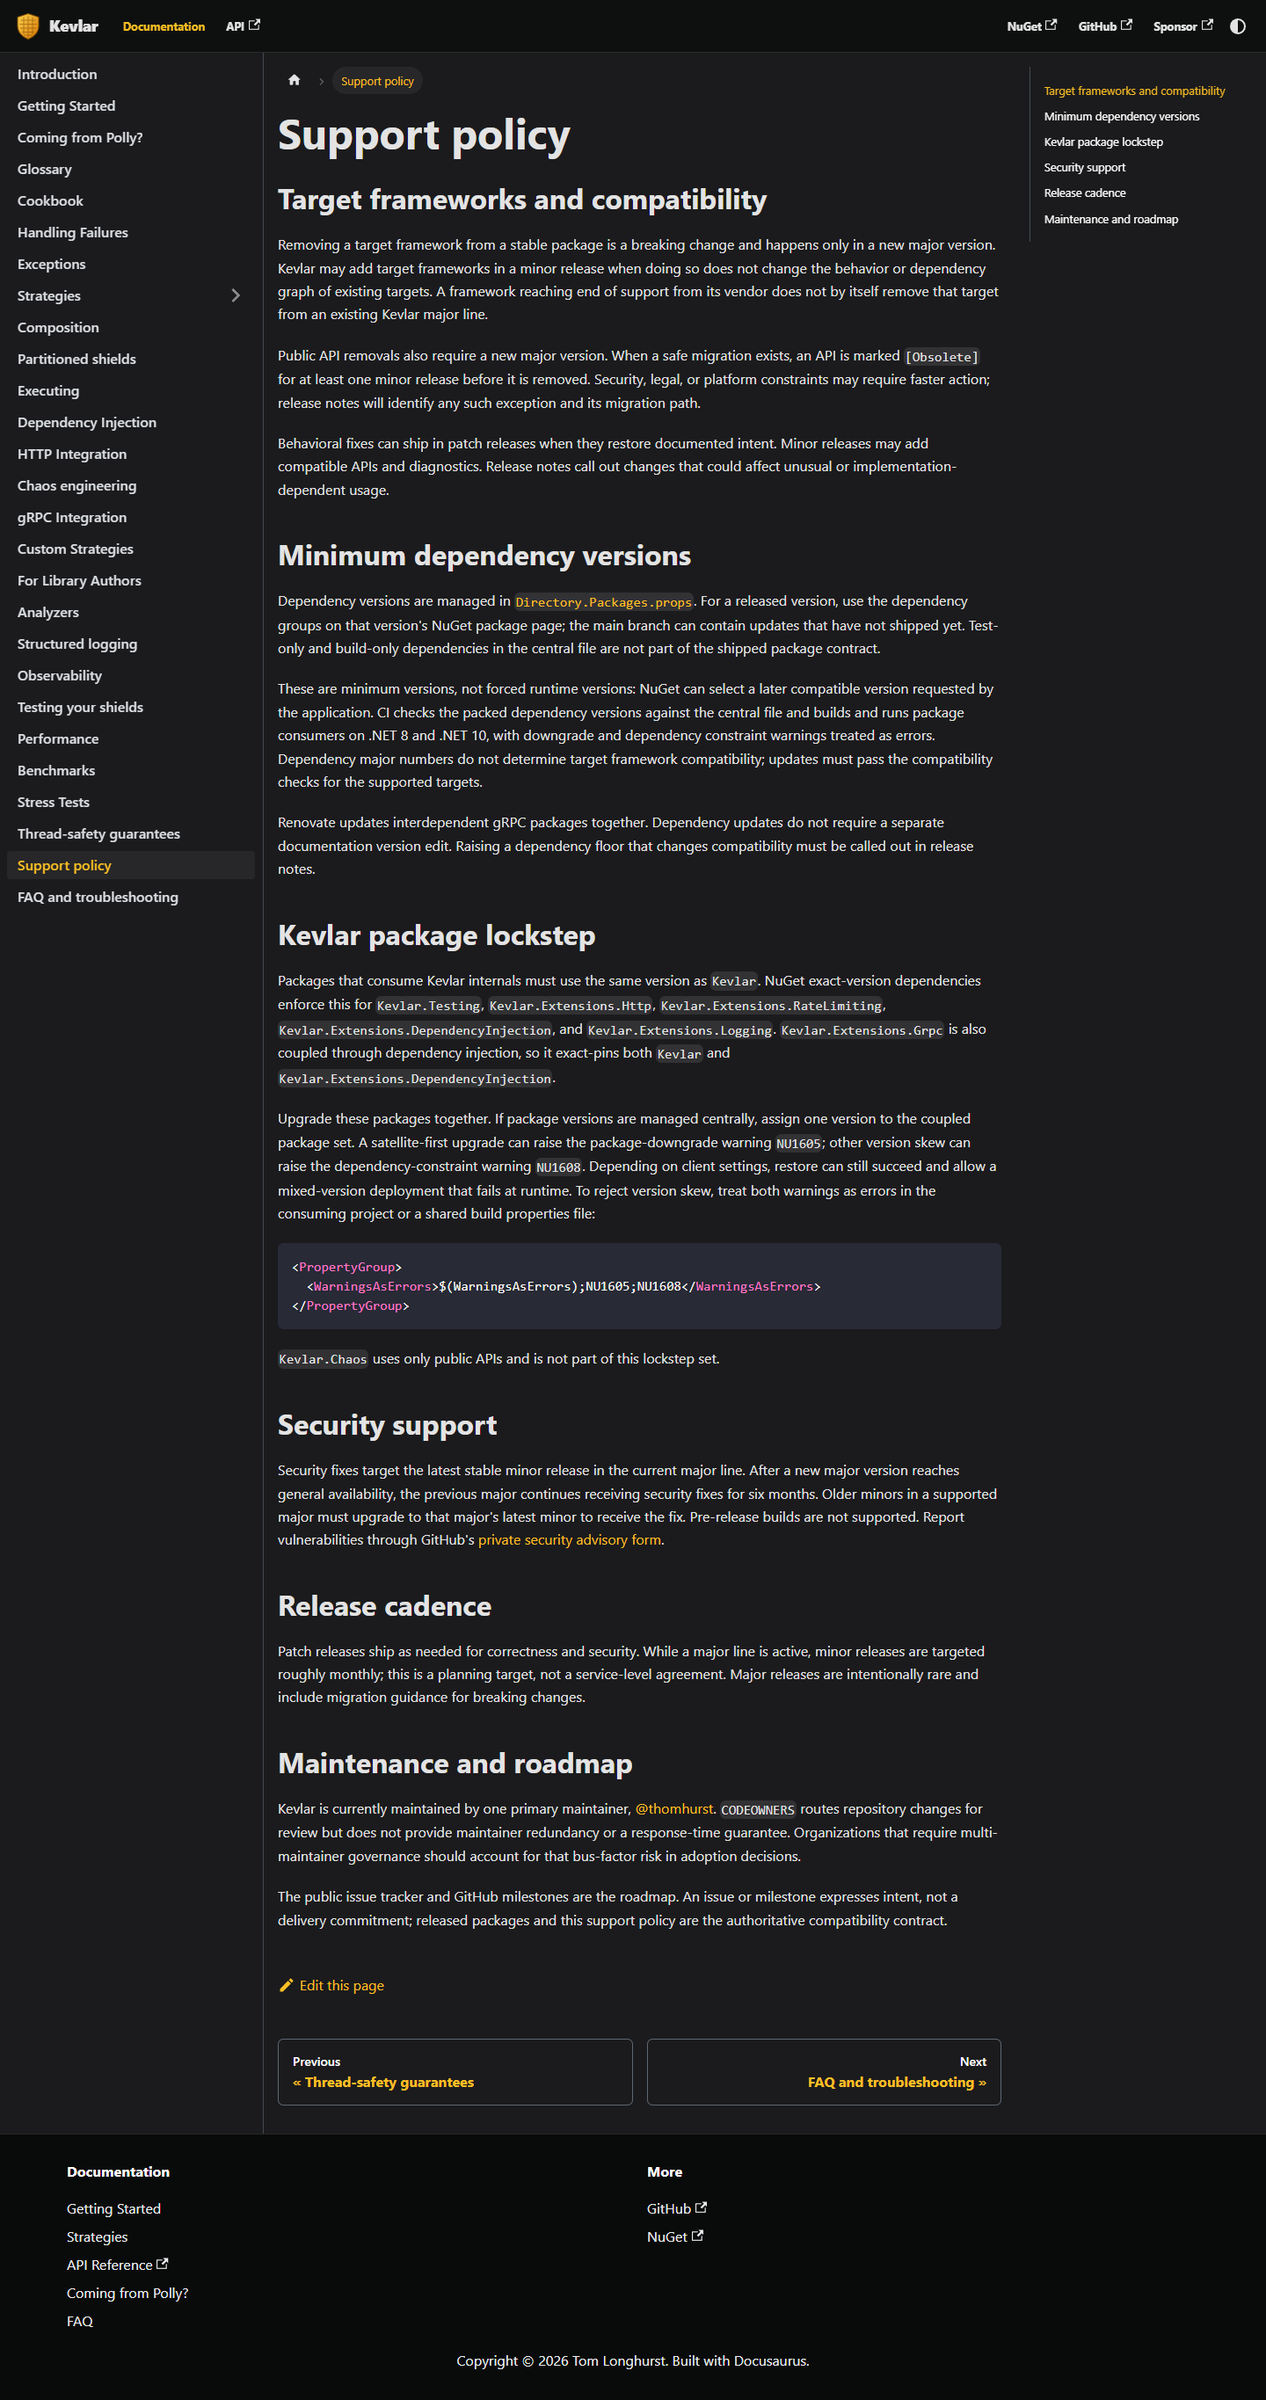
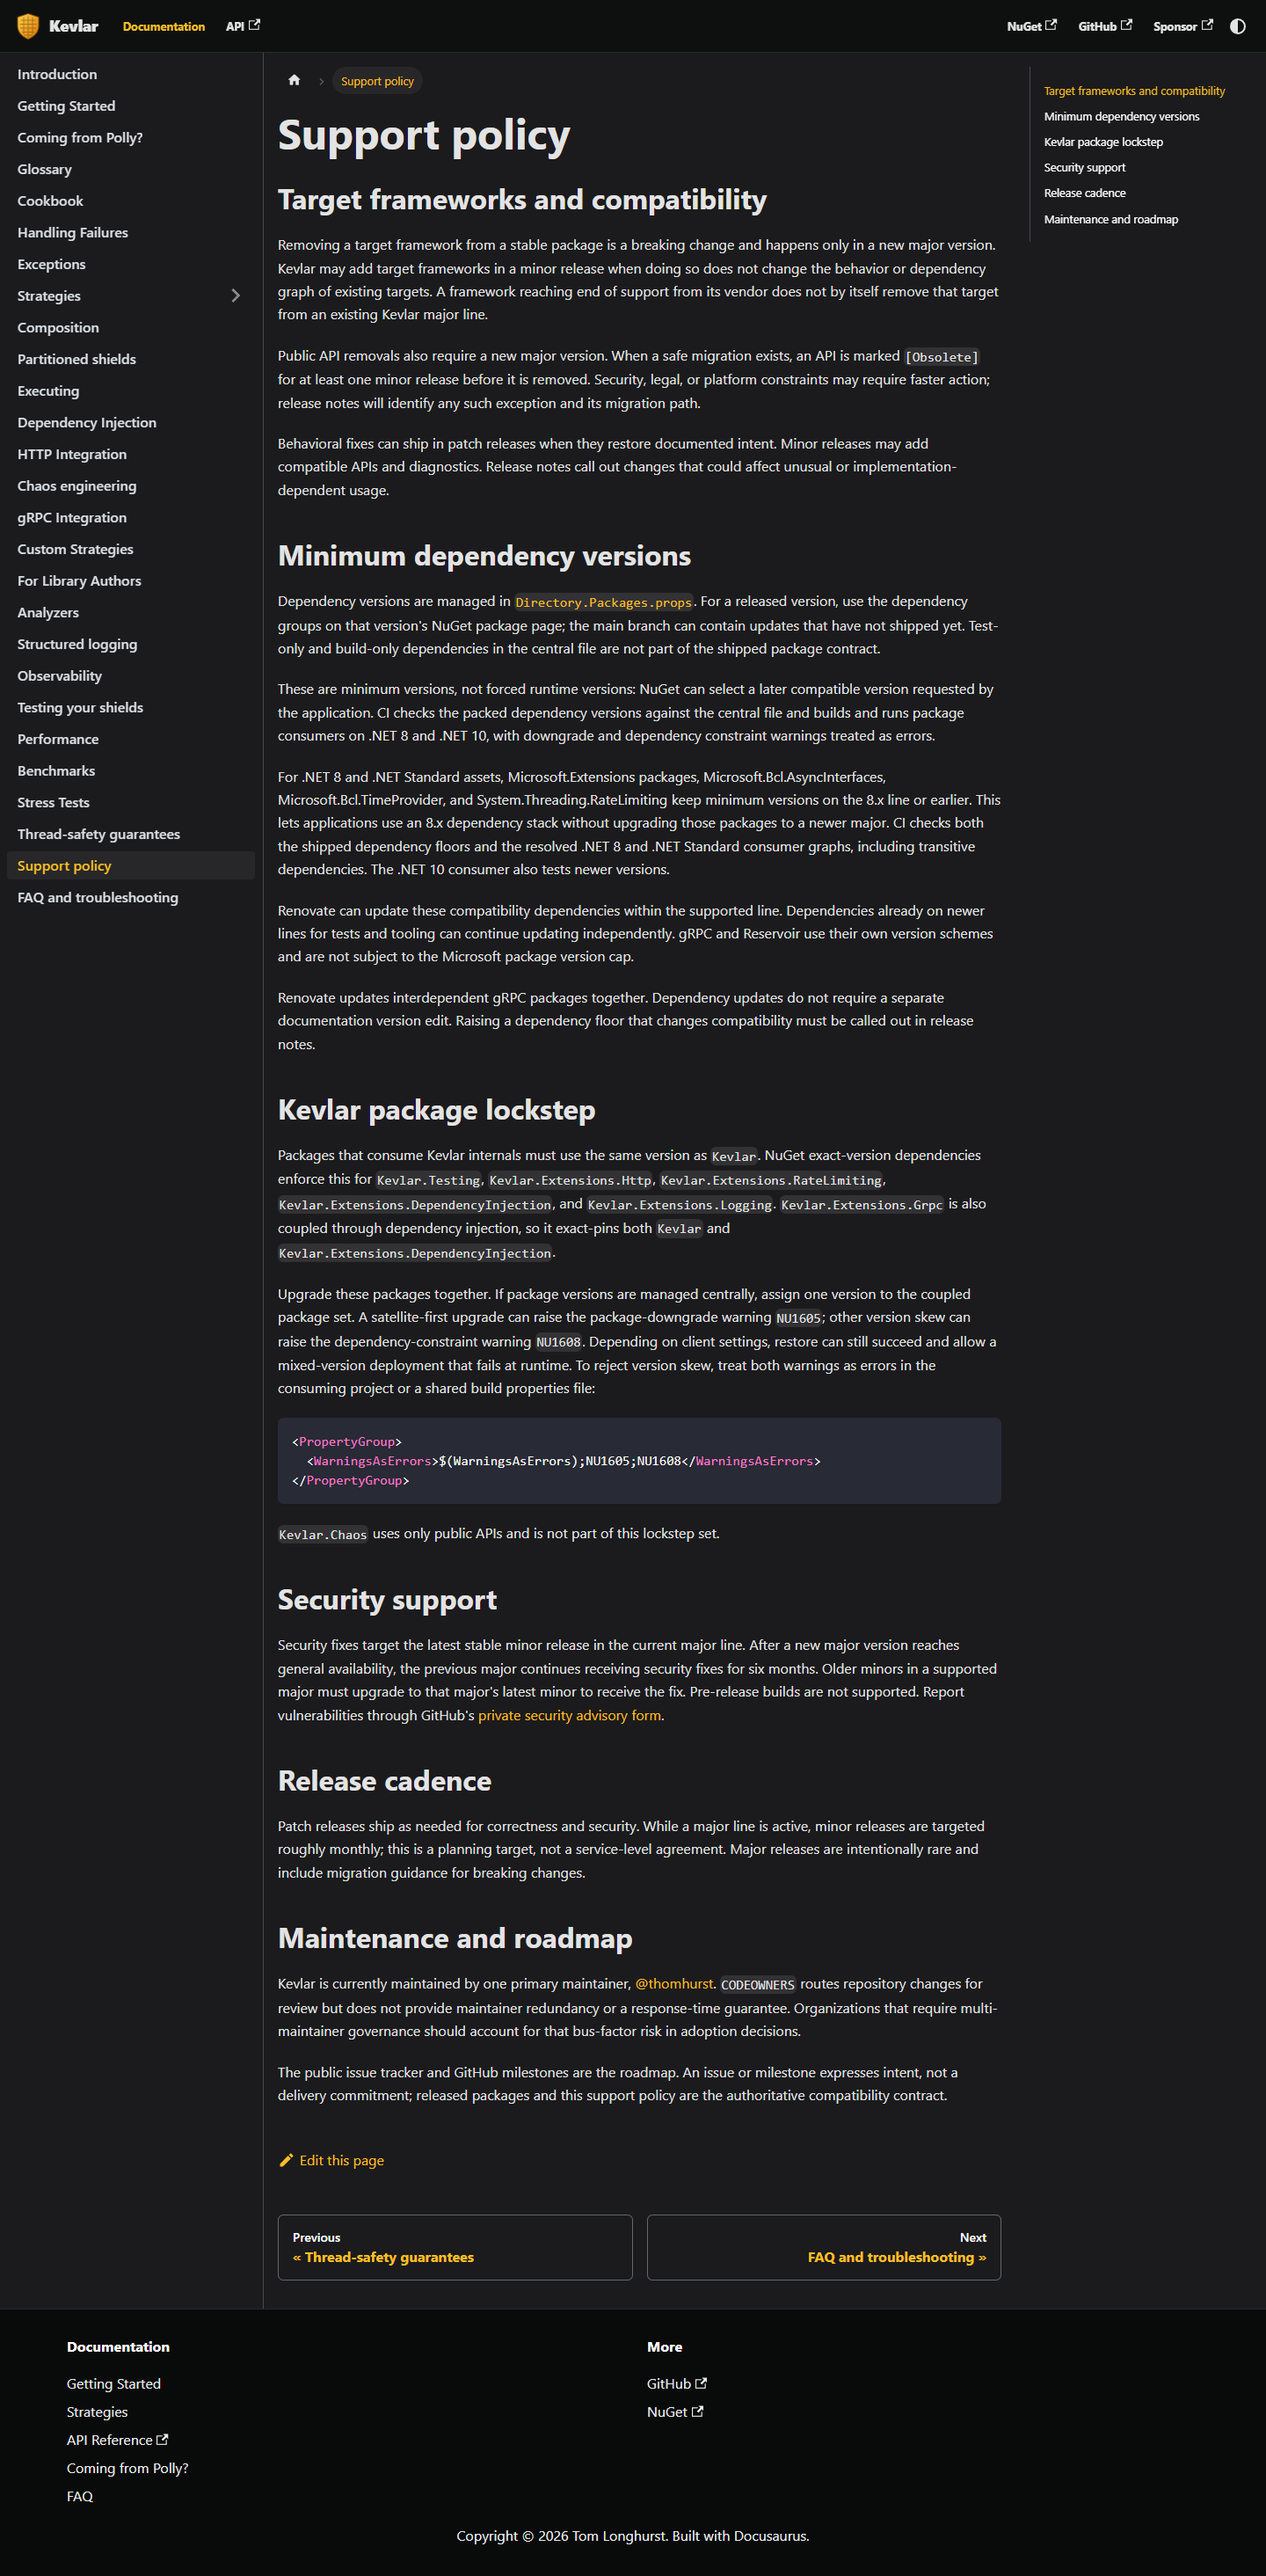
fix(packaging): restore .NET 8 compatible dependency floors

diff --git a/docs/docs/support-policy.md b/docs/docs/support-policy.md
@@ -31,8 +31,18 @@ central file are not part of the shipped package contract.
 These are minimum versions, not forced runtime versions: NuGet can select a later compatible
 version requested by the application. CI checks the packed dependency versions against the central
 file and builds and runs package consumers on .NET 8 and .NET 10, with downgrade and dependency
-constraint warnings treated as errors. Dependency major numbers do not determine target framework
-compatibility; updates must pass the compatibility checks for the supported targets.
+constraint warnings treated as errors.
+
+For .NET 8 and .NET Standard assets, Microsoft.Extensions packages, Microsoft.Bcl.AsyncInterfaces,
+Microsoft.Bcl.TimeProvider, and System.Threading.RateLimiting keep minimum versions on the 8.x
+line or earlier. This lets applications use an 8.x dependency stack without upgrading those
+packages to a newer major. CI checks both the shipped dependency floors and the resolved .NET 8
+and .NET Standard consumer graphs, including transitive dependencies. The .NET 10 consumer also
+tests newer versions.
+
+Renovate can update these compatibility dependencies within the supported line. Dependencies
+already on newer lines for tests and tooling can continue updating independently. gRPC and
+Reservoir use their own version schemes and are not subject to the Microsoft package version cap.
 
 Renovate updates interdependent gRPC packages together. Dependency updates do not require a
 separate documentation version edit. Raising a dependency floor that changes compatibility must
